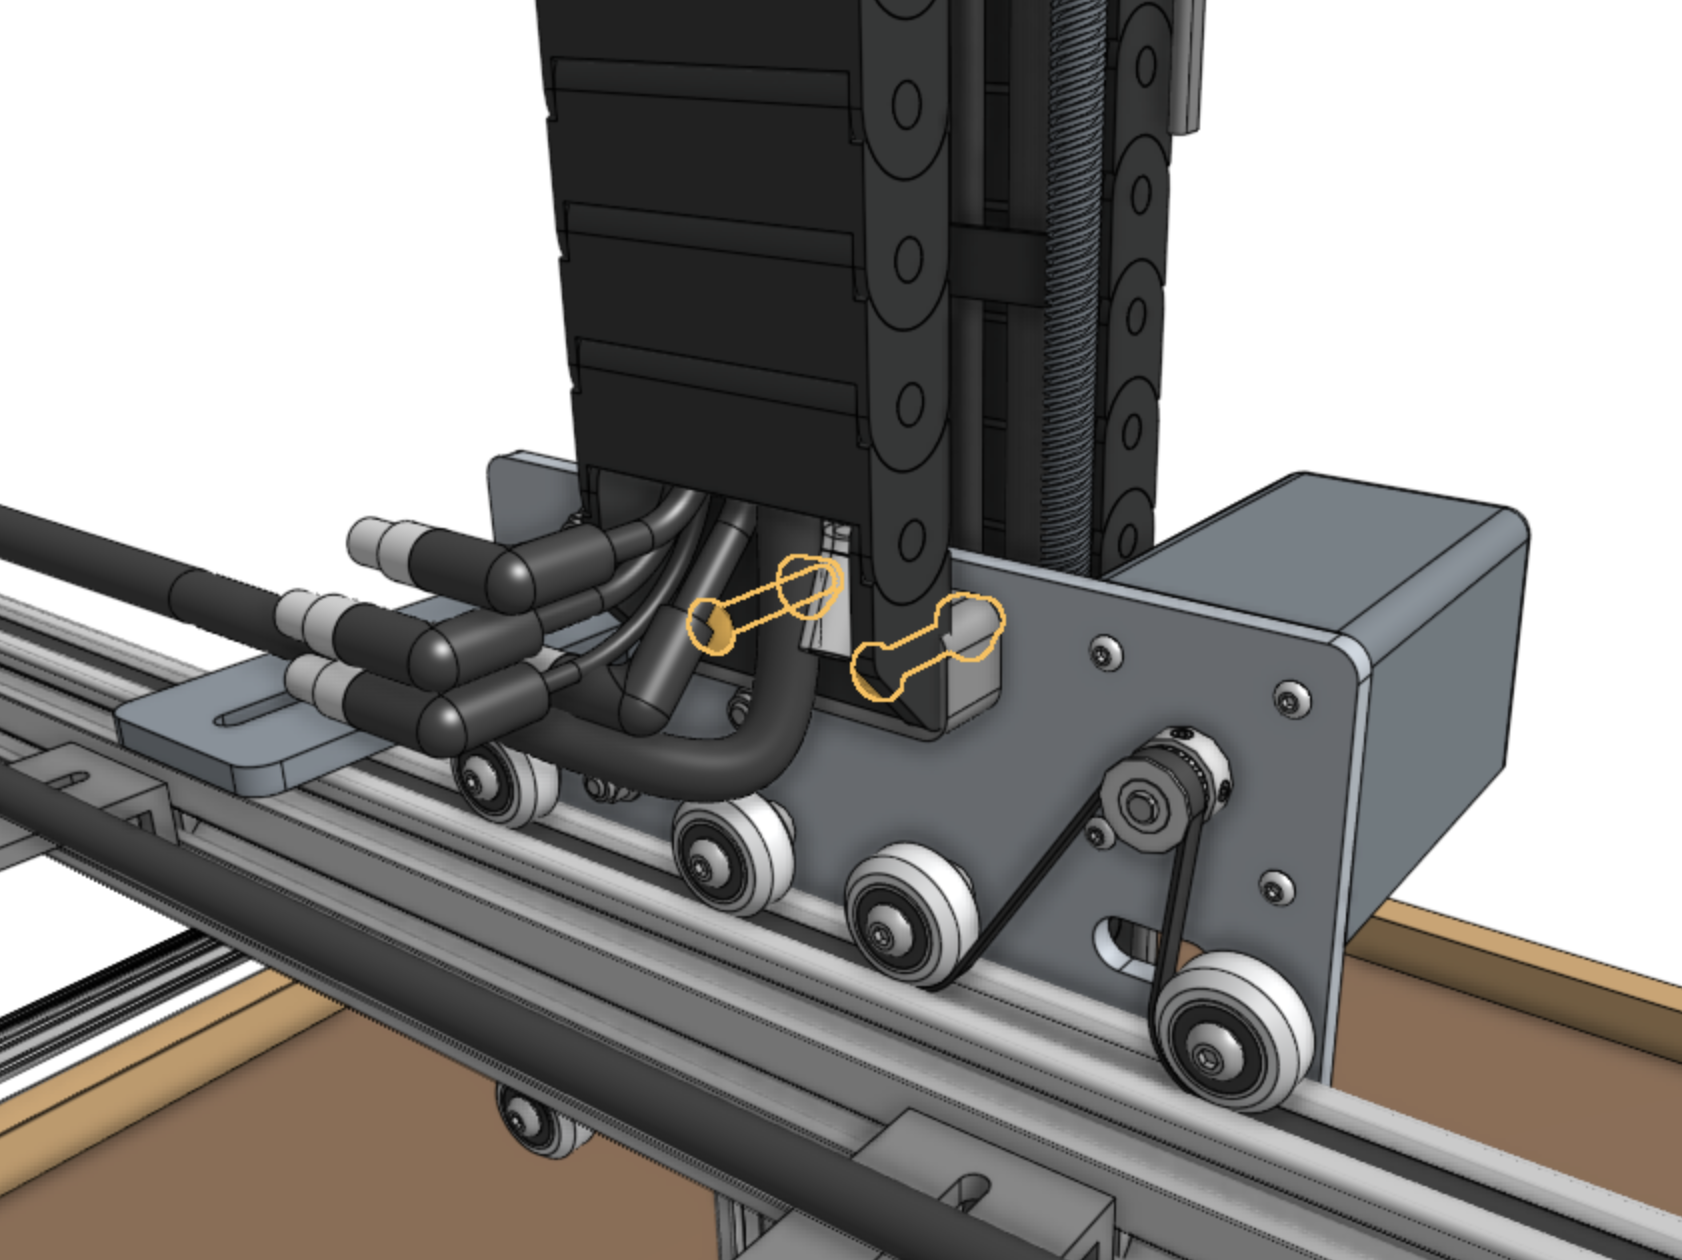
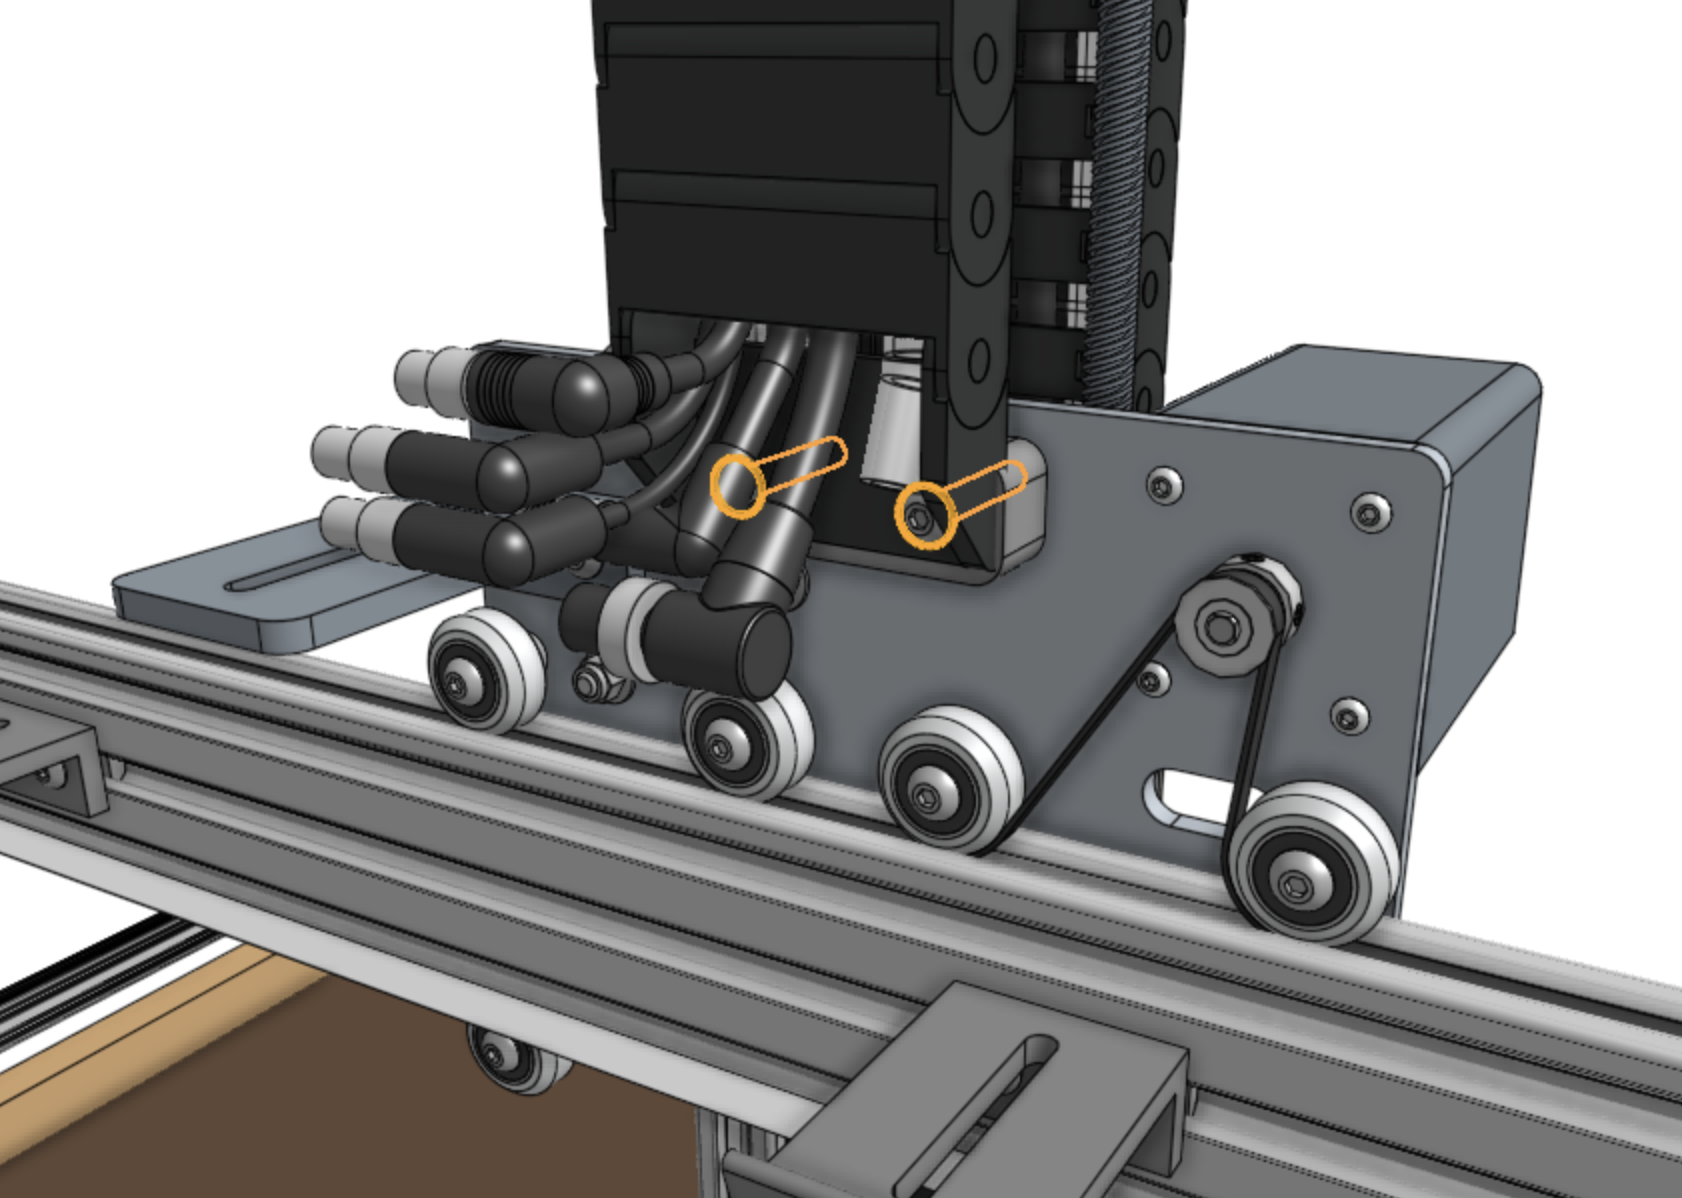
z cable carrier

diff --git a/v1.6/assembly/cables-and-tubing/z-axis-cable-carrier.md b/v1.6/assembly/cables-and-tubing/z-axis-cable-carrier.md
@@ -27,20 +27,25 @@ There is only one orientation that the **z-axis cable carrier** mounts to the **
 
 # Step 3: Lay everything into the cable carrier
 
-Keeping the mounting orientation of the cable carrier in mind, lay the **UTM cable**, the **z-axis water tube (0.95m)**, the **vacuum pump cable (z-axis section)**, the **camera**, the **z-axis motor cable (z-axis section)**, and the **z-axis encoder cable (z-axis section)** into the open cable carrier. The ends of all cabling and tubing should be offset from the **z-axis end** of the cable carrier as follows:
+Keeping the mounting orientation of the cable carrier in mind, lay the following items into the open cable carrier. The **cross-slide end** of all items should be sticking out from the **cross-slide end** of the cable carrier by approximately **5cm**. This will leave the appropriate remaining length of each item sticking out from the z-axis end of the cable carrier.
 
-|Cable/Tube|Extension<br>(beyond the Z end)|
-|----------|-------------------------------|
-|[Z-axis water tube](../../bom/tubing/tube.md)<br>_0.95m long_|10cm
-|[UTM cable](../../bom/electronics-and-wiring/universal-tool-mount-cable.md)<br>_End with the yellow and black connectors_|10cm
-|[Camera](../../bom/electronics-and-wiring/camera.md)|15cm
-|[Vacuum pump cable (z-axis section)](../../bom/electronics-and-wiring/vacuum-pump-cable.md)<br>_End with the quick-connect terminals_|30cm
-|[Z-axis motor cable (z-axis section)](../../bom/electronics-and-wiring/motor-cable.md)<br>_End with the white motor plug_|100cm
-|[Z-axis encoder cable (z-axis section)](../../bom/electronics-and-wiring/encoder-cable.md)<br>_End with the white encoder plug_|100cm
+|Item|Cross-slide end description|
+|----|---------------------------|
+|[Z-axis water tube](../../bom/tubing/tube.md) (0.95m long)|Either
+|[Z-axis UTM cable](../../bom/electronics-and-wiring/universal-tool-mount-cable.md) (1.0m long)|End with the 90-degree connector
+|[Camera](../../bom/electronics-and-wiring/camera.md) (1.0m long)|End with the 90-degree connector
+|[Z-axis vacuum pump cable](../../bom/electronics-and-wiring/vacuum-pump-cable.md) (1.0m long)|End with the 90-degree connector
+|[ZZ motor cable](../../bom/electronics-and-wiring/motor-cable.md) (1.8m long)|End with the 90-degree connector
+|[ZZ encoder cable](../../bom/electronics-and-wiring/encoder-cable.md) (1.8m long)|End with the 90-degree connector
 
+{%
+include callout.html
+type="info"
+content="The exact number of pins in each connector may vary from the images below depending on when your kit was manufactured."
+%}
 
 {% include gallery.html images="
-![Cables and tube extensions](_images/z_cables_extended.jpg)
+![Cables and tube organization](_images/z_cable_carrier_organization_cross_slide_end.png)
 ![Cables and tube organization](_images/z_cable_carrier_organization.png)
 " %}
 
@@ -72,7 +77,7 @@ Now attach the z-axis end of the **cable carrier** to the lowest **vertical cabl
 
 # Step 6: Connect the z-axis motor and encoder
 
-Feed the **z-axis motor and encoder cables** up through the slots in the **vertical cable carrier supports**, and then through the slot in the **z-axis motor mount**. Then connect the cables to the motor and encoder.
+Feed the **ZZ motor and encoder cables** up through the slots in the **vertical cable carrier supports**, and then through the slot in the **z-axis motor mount**. Then connect the cables to the motor and encoder.
 
 {% include gallery.html images="
 ![Connect the z motor and encoder cables](_images/connect_z_motor_cables_1.png)
